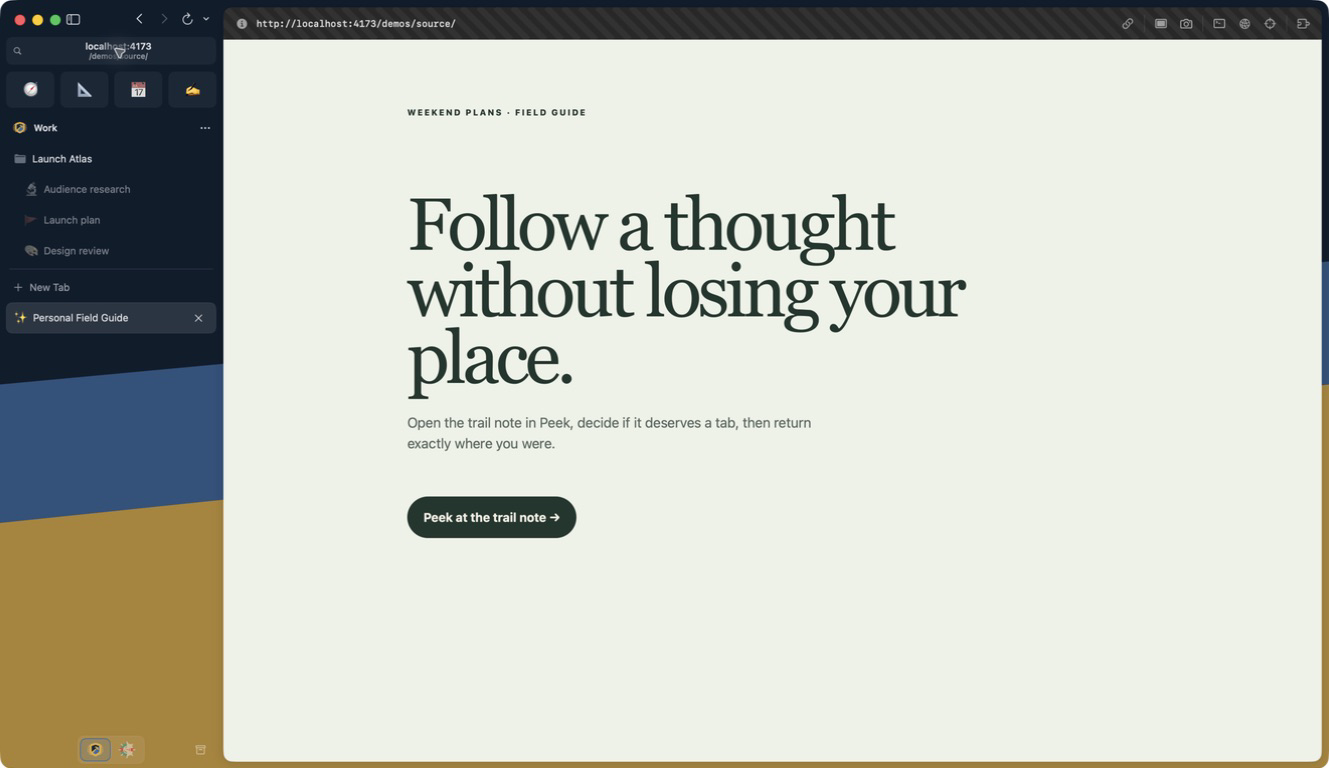
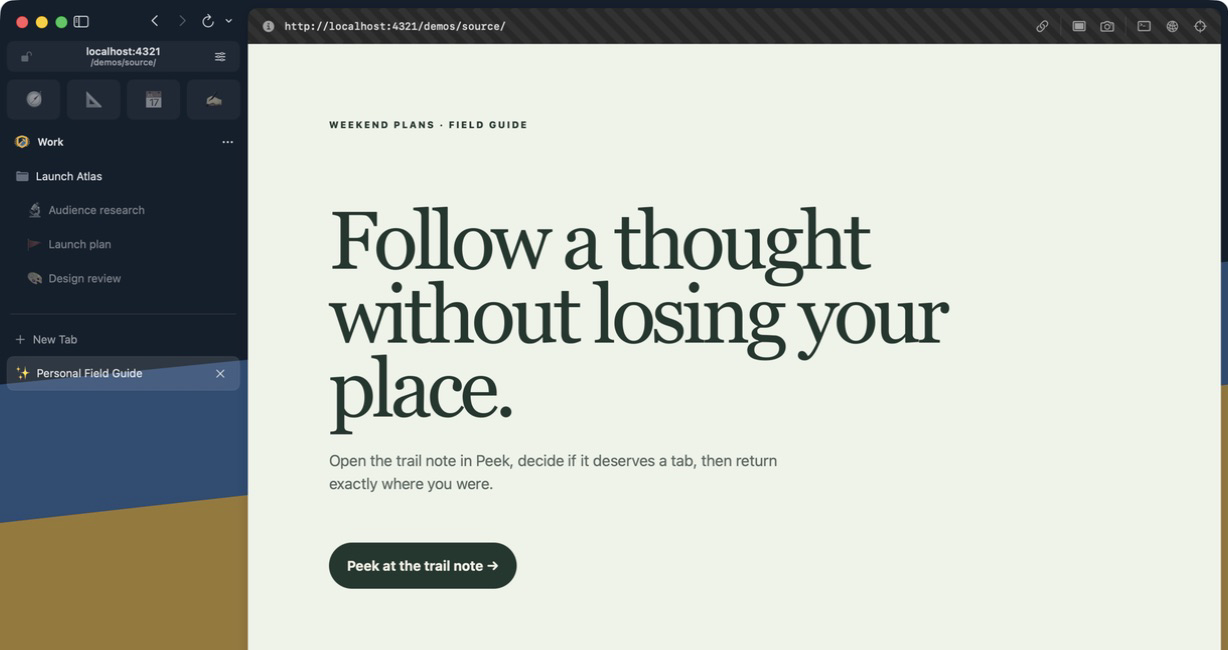
Website work

diff --git a/Website/index.html b/Website/index.html
@@ -39,7 +39,7 @@
   <link rel="apple-touch-icon" sizes="180x180" href="assets/apple-touch-icon.png">
   <link rel="mask-icon" href="assets/crest-logo.svg" color="#101827">
   <link rel="manifest" href="site.webmanifest">
-  <link rel="stylesheet" href="styles.css?v=20260816-direct-split-parity">
+  <link rel="stylesheet" href="styles.css?v=20260817-uniform-parity-matrix">
   <script src="site.js" defer></script>
   <script type="application/ld+json">
     {
@@ -165,7 +165,7 @@
         <div class="parity-row" role="row"><span role="cell">Durable pages</span><strong role="cell">Pinned Tabs</strong><span role="cell"><b>Saved tabs</b><small>Keep a home URL, wander away, then return to the saved location.</small></span></div>
         <div class="parity-row" role="row"><span role="cell">Projects and nesting</span><strong role="cell">Folders</strong><span role="cell"><b>Saved folders</b><small>Nest, color, collapse, reorder, and move complete folder trees.</small></span></div>
         <div class="parity-row" role="row"><span role="cell">Fast navigation</span><strong role="cell">Command Bar</strong><span role="cell"><b>Command palette</b><small>Search the web, tabs, history, other Spaces, and every Crest command.</small></span></div>
-        <div class="parity-row parity-featured" role="row"><span role="cell">Automatic link routing</span><strong role="cell">Air Traffic Control</strong><span role="cell"><b>Link Routing</b><small>Send exact URLs or matching domains to the right Space before the default route.</small></span></div>
+        <div class="parity-row" role="row"><span role="cell">Automatic link routing</span><strong role="cell">Air Traffic Control</strong><span role="cell"><b>Link Routing</b><small>Send exact URLs or matching domains to the right Space before the default route.</small></span></div>
         <div class="parity-row" role="row"><span role="cell">Multiple pages at once</span><strong role="cell">Split View</strong><span role="cell"><b>Split View</b><small>Two to four live cards, resizable on Mac and iPad and paged on iPhone.</small></span></div>
         <div class="parity-row" role="row"><span role="cell">Temporary link preview</span><strong role="cell">Peek</strong><span role="cell"><b>Peek</b><small>Preview above the source page, then close it or promote it into any Space.</small></span></div>
         <div class="parity-row" role="row"><span role="cell">External-link triage</span><strong role="cell">Little Arc</strong><span role="cell"><b>Quick Window</b><small>Open small, choose the right Space, and keep only what matters.</small></span></div>
@@ -277,7 +277,7 @@
       </div>
 
       <figure class="split-product-shot reveal">
-        <img src="assets/crest-split-view-mac-2026.png" alt="Crest Split View on Mac showing a field guide and trail note side by side inside the Personal Space" width="1329" height="768">
+        <img src="assets/crest-split-view-mac-2026.png" alt="Crest Split View on Mac showing a field guide and trail note side by side inside the Personal Space" width="1228" height="650">
         <figcaption><span>Real Crest capture · Personal Space</span><strong>Two live pages, one saved group.</strong></figcaption>
       </figure>
 
@@ -516,7 +516,7 @@
             <h3>Take a quick look without losing your place</h3>
             <p>Open a link above the page you are reading. Close it to return instantly, or promote it into a full tab when it earns a place.</p>
           </div>
-          <figure><img src="assets/crest-peek-mac-2026.png" alt="Current Crest Peek displaying a trail note above its dimmed source page" width="1329" height="768"></figure>
+          <figure><img src="assets/crest-peek-mac-2026.png" alt="Current Crest Peek displaying a trail note above its dimmed source page" width="1140" height="768"></figure>
         </article>
 
         <article class="feature-chapter feature-localhost reveal">
@@ -526,7 +526,7 @@
             <h3>Developer tools that appear when you open localhost</h3>
             <p>Open localhost and Crest reveals a dedicated toolbar for reload options, responsive capture, console, network, and inspection. Leave localhost and the extra chrome leaves with it.</p>
           </div>
-          <figure><img src="assets/crest-localhost-mac-2026.png" alt="Crest on Mac showing its automatic localhost developer toolbar" width="1329" height="768"></figure>
+          <figure><img src="assets/crest-localhost-mac-2026.png" alt="Crest on Mac showing its automatic localhost developer toolbar" width="1228" height="650"></figure>
         </article>
       </div>
 

diff --git a/Website/styles.css b/Website/styles.css
@@ -204,8 +204,6 @@ nav a:not(.nav-cta):hover::after { right: 0; }
 .parity-row > span:last-child { display: grid; gap: .35rem; }
 .parity-row b { font: 600 .82rem/1.35 var(--sans); }
 .parity-row small { color: rgba(16,24,39,.62); font-size: .72rem; line-height: 1.55; }
-.parity-featured { background: rgba(210,173,88,.22); box-shadow: inset .3rem 0 var(--gold); }
-.parity-featured > strong { color: #7c331f; }
 .parity-note { max-width: 780px; margin: 2rem 0 0 auto; color: rgba(16,24,39,.56); font-size: .68rem; line-height: 1.65; }
 
 .platform-story { padding: clamp(6.5rem, 11vw, 10rem) max(1.5rem, calc((100vw - 1280px) / 2)); color: var(--paper); background: #49365f; }
@@ -692,7 +690,6 @@ section:target .reveal { opacity: 1; transform: none; }
   .parity-row > span:first-child::before { content: "The job"; }
   .parity-row > strong::before { content: "Arc called it"; }
   .parity-row > span:last-child::before { content: "Crest"; }
-  .parity-featured { box-shadow: inset .28rem 0 var(--gold); }
   .split-product-shot figcaption, .split-guide-link { align-items: flex-start; flex-direction: column; }
   .split-capabilities { grid-template-columns: 1fr; }
   .platform-copy, .forge-copy, .feature-copy { padding: 1.6rem; }

diff --git a/Scripts/Tests/test_product_site.py b/Scripts/Tests/test_product_site.py
@@ -290,6 +290,7 @@ class ProductSiteTests(unittest.TestCase):
                 self.assertIn(crest_name, matrix.group(0))
         self.assertIn("Carried forward, then taken further", self.homepage)
         self.assertIn("full browser model now belongs on every Apple device", self.homepage)
+        self.assertNotIn("parity-featured", self.homepage)
         self.assertNotIn("What Arc got right", self.homepage)
         self.assertNotIn("What Crest changes", self.homepage)
 
@@ -349,14 +350,14 @@ class ProductSiteTests(unittest.TestCase):
             "crest-spaces-mac-2026.png": (900, 660),
             "crest-spaces-ipad-2026.png": (2420, 1668),
             "crest-spaces-iphone-2026.png": (1206, 2622),
-            "crest-localhost-mac-2026.png": (1329, 768),
+            "crest-localhost-mac-2026.png": (1228, 650),
             "crest-personal-mac-clean.png": (1440, 900),
             "crest-traditional-gradient-mac-clean.png": (1440, 900),
             "crest-import-browser-selection-mac-2026.png": (2340, 1622),
             "crest-import-space-review-mac-2026.png": (2350, 1632),
             "crest-quick-window-mac-2026.png": (720, 460),
-            "crest-peek-mac-2026.png": (1329, 768),
-            "crest-split-view-mac-2026.png": (1329, 768),
+            "crest-peek-mac-2026.png": (1140, 768),
+            "crest-split-view-mac-2026.png": (1228, 650),
         }
         for filename, size in expected_sizes.items():
             with self.subTest(filename=filename):
